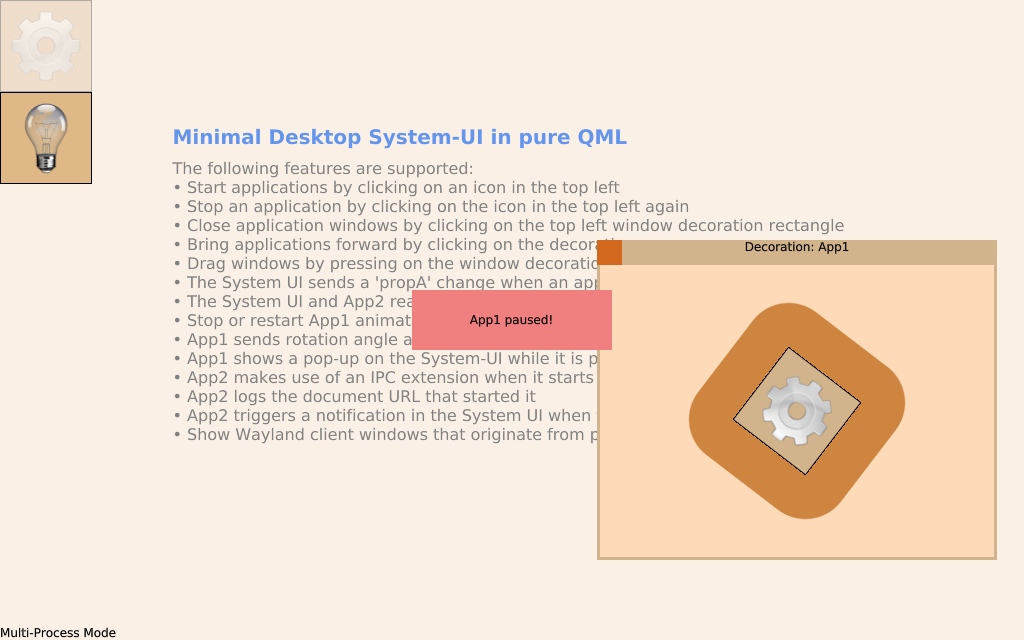
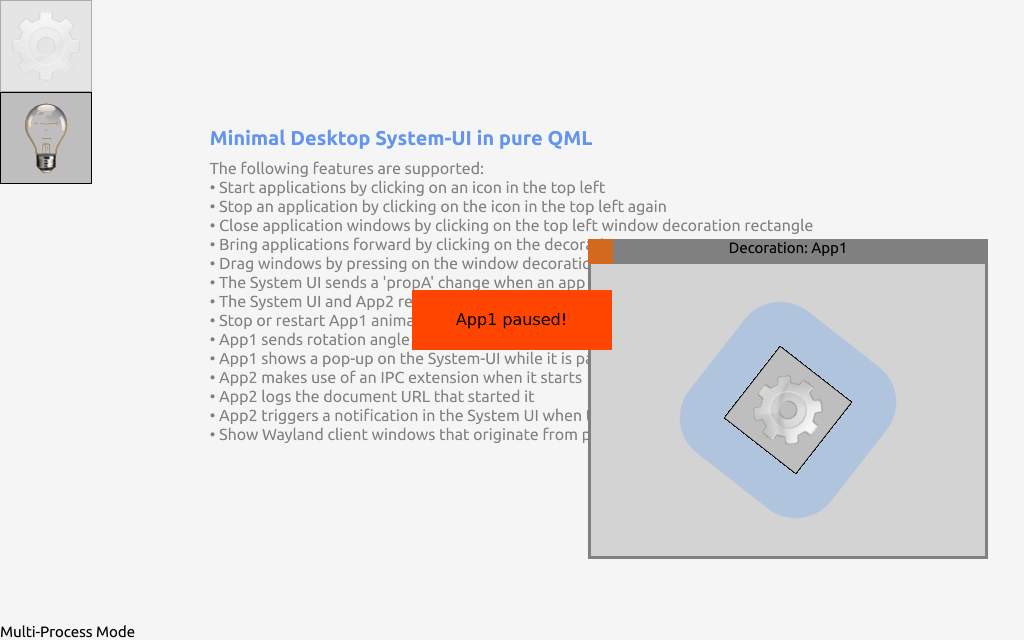
Repaint minidesk
Pig pink palled. Also added some transparency to better illustrate
compositing.

Changed region(s): [[0.1562, 0.1875, 1.0, 0.875], [0.0, 0.0, 0.0938, 0.3125], [0.0, 0.9688, 0.125, 1.0]]

diff --git a/examples/applicationmanager/minidesk/system-ui/main.qml b/examples/applicationmanager/minidesk/system-ui/main.qml
@@ -51,13 +51,15 @@
 **
 ****************************************************************************/
 
-import QtQuick 2.4
+import QtQuick 2.11
+import QtQuick.Window 2.11
 import QtApplicationManager.SystemUI 2.0
 
-Rectangle {
+Window {
+    title: "Minidesk - QtApplicationManager Example"
     width: 1024
     height: 640
-    color: "linen"
+    color: "whitesmoke"
 
     Readme {}
 
@@ -87,10 +89,9 @@ Rectangle {
     Repeater {
         model: ListModel { id: topLevelWindowsModel }
 
-        delegate: Rectangle {
-            width: 400; height: 320
+        delegate: Image {
+            source: "chrome-bg.png"
             z: model.index
-            color: "tan"
 
             Text {
                 anchors.horizontalCenter: parent.horizontalCenter

diff --git a/examples/applicationmanager/minidesk/apps/tld.minidesk.app1/app1.qml b/examples/applicationmanager/minidesk/apps/tld.minidesk.app1/app1.qml
@@ -56,12 +56,12 @@ import QtApplicationManager.Application 2.0
 
 ApplicationManagerWindow {
     id: root
-    color: "peachpuff"
+    color: "lightgrey"
 
     Rectangle {
         anchors.centerIn: parent
         width: 180; height: 180; radius: width/4
-        color: "peru"
+        color: "lightsteelblue"
 
         Image {
             source: ApplicationInterface.icon
@@ -90,7 +90,7 @@ ApplicationManagerWindow {
     ApplicationManagerWindow {
         id: popUp
         visible: false
-        color: "lightcoral"
+        color: "orangered"
 
         Text {
             anchors.centerIn: parent

diff --git a/examples/applicationmanager/minidesk/apps/tld.minidesk.app2/app2.qml b/examples/applicationmanager/minidesk/apps/tld.minidesk.app2/app2.qml
@@ -55,7 +55,7 @@ import QtQuick 2.4
 import QtApplicationManager.Application 2.0
 
 ApplicationManagerWindow {
-    color: ApplicationInterface.systemProperties.light ? "peachpuff" : "black"
+    color: ApplicationInterface.systemProperties.light ? "#B0808080" : "black"
 
     Image {
         anchors.centerIn: parent
